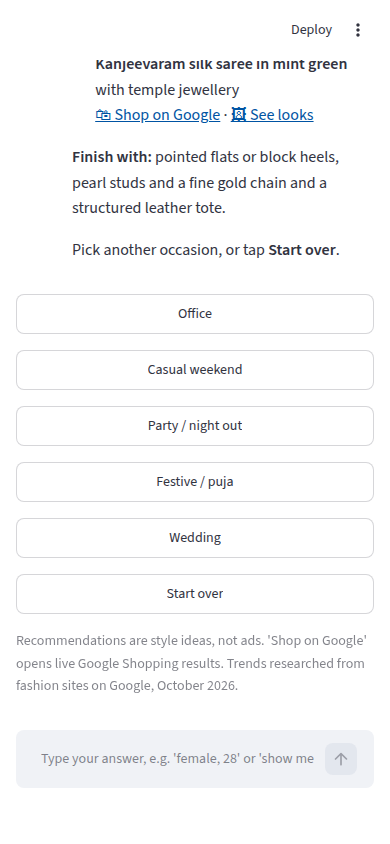
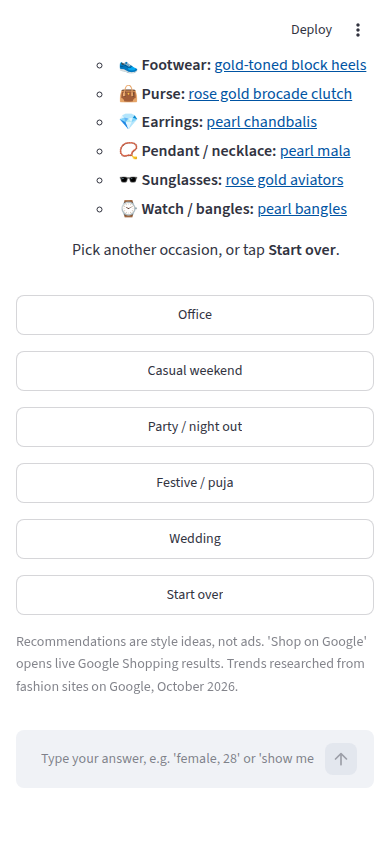
Stylist: recommend complete looks with matched accessories
- Every outfit now comes with footwear, purse, earrings, pendant,
  sunglasses and watch/bangles (women); watch, sunglasses, footwear and a
  finishing touch (men); bag, jewellery, watch, sunglasses (neutral)
- Accessories follow wear type and vibe; metal tone and purse colour
  follow the palette; occasions dress accessories up or down
- Outfit notes no longer repeat accessories; tests cover every look

Claude-Session: https://claude.ai/code/session_01J9GDJHfccqAxpuc6eiAtKr

diff --git a/05-just-for-you-stylist/style_knowledge.py b/05-just-for-you-stylist/style_knowledge.py
@@ -239,38 +239,142 @@ OCCASION_OUTFITS = {
     },
 }
 
-# ---- Accessories: ACCESSORIES[gender][vibe] -----------------------------------
-ACCESSORIES = {
-    "woman": {
-        "comfortable": {"Footwear": "white sneakers or kolhapuri flats", "Bag": "canvas tote",
-                        "Jewellery": "small hoops or oxidised silver studs", "Extra": "cotton stole or bucket hat"},
-        "classy": {"Footwear": "pointed flats or block heels", "Bag": "structured leather tote",
-                   "Jewellery": "pearl studs and a fine gold chain", "Extra": "classic leather-strap watch"},
-        "fashionable": {"Footwear": "kitten heels or chunky loafers", "Bag": "woven shoulder bag",
-                        "Jewellery": "layered necklaces and stacked rings", "Extra": "statement sunglasses"},
-        "statement": {"Footwear": "metallic heels or embellished juttis", "Bag": "minaudiere clutch or potli",
-                      "Jewellery": "chunky beaded necklace or chandbalis", "Extra": "statement brooch"},
+# ---- Complete-look accessories ----------------------------------------------------
+# Options are separated by "|"; outfit 1 gets the first option, outfit 2 the second, and so on.
+# {metal} is filled from the colour palette (e.g. rose gold for pastels) and {accent} with a
+# palette colour, so accessories match the customer's colours.
+METAL = {"Neutrals & whites": "gold", "Pastels": "rose gold", "Earthy tones": "antique gold",
+         "Jewel tones": "gold", "Bright & bold": "gold", "Black & monochrome": "silver",
+         "Surprise me (2026 trend colours)": "silver"}
+
+# Women: LOOK_WOMAN[slot][wear][vibe]
+LOOK_WOMAN = {
+    "Footwear": {
+        "western": {"comfortable": "white sneakers|ballet flats|slip-on loafers",
+                    "classy": "pointed flats|block heels|slingback kitten heels",
+                    "fashionable": "kitten heels|chunky loafers|strappy flat sandals",
+                    "statement": "metallic heels|knee-high boots|embellished mules"},
+        "indo": {"comfortable": "kolhapuri flats|embroidered juttis|flat sandals",
+                 "classy": "embroidered juttis|block-heel sandals|pointed mules",
+                 "fashionable": "block heels|embellished kolhapuris|platform juttis",
+                 "statement": "embellished heels|mirror-work juttis|metallic block heels"},
+        "traditional": {"comfortable": "kolhapuris|cotton juttis|soft leather sandals",
+                        "classy": "silk juttis|gold-toned block heels|embroidered mojaris",
+                        "fashionable": "embellished juttis|platform kolhapuris|wedge juttis",
+                        "statement": "zari juttis|embellished heels|velvet mojaris"},
     },
-    "man": {
-        "comfortable": {"Footwear": "white sneakers or kolhapuris", "Bag": "canvas backpack",
-                        "Jewellery": "simple bracelet", "Extra": "cotton cap"},
-        "classy": {"Footwear": "leather loafers or mojaris", "Bag": "leather messenger bag",
-                   "Jewellery": "signet ring", "Extra": "minimal leather-strap watch"},
-        "fashionable": {"Footwear": "chunky sneakers", "Bag": "sling bag",
-                        "Jewellery": "silver chain", "Extra": "tinted sunglasses"},
-        "statement": {"Footwear": "embroidered mojaris or chelsea boots", "Bag": "textured leather pouch",
-                      "Jewellery": "layered chains and a bold ring", "Extra": "lapel brooch or pocket square"},
+    "Purse": {
+        "western": {"comfortable": "{accent} canvas tote|{accent} crossbody bag|{accent} sling bag",
+                    "classy": "structured {accent} leather tote|{accent} top-handle bag|{accent} envelope clutch",
+                    "fashionable": "woven {accent} shoulder bag|{accent} baguette bag|{accent} bucket bag",
+                    "statement": "{metal} minaudiere clutch|{accent} beaded clutch|sculptural {accent} handbag"},
+        "indo": {"comfortable": "{accent} printed tote|{accent} jute sling bag|{accent} fabric crossbody",
+                 "classy": "{accent} potli bag|{accent} embroidered clutch|structured {accent} tote",
+                 "fashionable": "{accent} mirror-work sling bag|{accent} box clutch|{accent} woven potli",
+                 "statement": "embellished {accent} potli|{metal} box clutch|{accent} sequinned clutch"},
+        "traditional": {"comfortable": "{accent} cotton potli|{accent} jute tote|{accent} block-print sling bag",
+                        "classy": "{accent} silk potli|{metal} brocade clutch|{accent} zari envelope clutch",
+                        "fashionable": "{accent} embroidered potli|{accent} beaded clutch|{accent} velvet potli",
+                        "statement": "{metal} embellished potli|{accent} velvet box clutch|{metal} zardozi clutch"},
     },
-    "neutral": {
-        "comfortable": {"Footwear": "sneakers or sliders", "Bag": "canvas tote", "Jewellery": "simple silver ring",
-                        "Extra": "bucket hat"},
-        "classy": {"Footwear": "leather loafers", "Bag": "structured crossbody", "Jewellery": "fine chain",
-                   "Extra": "minimal watch"},
-        "fashionable": {"Footwear": "chunky sneakers", "Bag": "sling bag", "Jewellery": "layered silver chains",
-                        "Extra": "statement sunglasses"},
-        "statement": {"Footwear": "platform boots", "Bag": "metallic pouch", "Jewellery": "chunky beaded necklace",
-                      "Extra": "brooch"},
+    "Earrings": {
+        "western": {"comfortable": "small {metal} hoops|{metal} studs|tiny {metal} huggies",
+                    "classy": "pearl studs|{metal} drop earrings|solitaire studs",
+                    "fashionable": "{metal} ear cuffs|chunky {metal} hoops|{metal} geometric earrings",
+                    "statement": "oversized {metal} hoops|chandelier earrings|sculptural {metal} earrings"},
+        "indo": {"comfortable": "small oxidised jhumkas|{metal} studs|mini {metal} chandbalis",
+                 "classy": "pearl drop earrings|{metal} jhumkas|kundan studs",
+                 "fashionable": "{metal} ear cuffs with chain|statement jhumkas|tassel earrings",
+                 "statement": "big {metal} chandbalis|layered jhumkas|mirror-work earrings"},
+        "traditional": {"comfortable": "small {metal} jhumkas|{metal} studs|oxidised silver jhumkas",
+                        "classy": "temple jhumkas|pearl chandbalis|kundan drop earrings",
+                        "fashionable": "statement jhumkas|polki earrings|{metal} chandbalis",
+                        "statement": "temple jhumkas with ear chains|polki chandbalis|layered kundan jhumkas"},
     },
+    "Pendant / necklace": {
+        "western": {"comfortable": "dainty {metal} chain|{metal} initial pendant|thin {metal} chain",
+                    "classy": "{metal} pendant on a fine chain|single pearl pendant|{metal} solitaire pendant",
+                    "fashionable": "layered {metal} necklaces|{metal} coin pendant|chunky {metal} chain",
+                    "statement": "chunky beaded necklace|bold {metal} collar necklace|layered pearl necklaces"},
+        "indo": {"comfortable": "oxidised silver pendant|{metal} thread pendant|minimal {metal} chain",
+                 "classy": "{metal} pendant with pearls|kundan pendant|fine {metal} chain",
+                 "fashionable": "layered {metal} necklaces|{metal} coin necklace|tassel pendant",
+                 "statement": "statement {metal} choker|chunky beaded necklace|layered kundan necklace"},
+        "traditional": {"comfortable": "small {metal} pendant|oxidised silver necklace|thin {metal} chain",
+                        "classy": "temple pendant|pearl mala|kundan pendant set",
+                        "fashionable": "polki choker|layered {metal} necklace|{metal} coin haar",
+                        "statement": "temple choker with long haar|polki necklace set|layered kundan haar"},
+    },
+    "Sunglasses": {"comfortable": "classic wayfarers|oversized round sunglasses|tortoiseshell wayfarers",
+                   "classy": "tortoiseshell cat-eye sunglasses|{metal} aviators|square tortoiseshell sunglasses",
+                   "fashionable": "slim oval sunglasses|tinted rectangular sunglasses|{metal} round sunglasses",
+                   "statement": "oversized shield sunglasses|{accent} cat-eye sunglasses|oversized square sunglasses"},
+    "Watch / bangles": {
+        "western": {"comfortable": "{accent} strap watch|slim {metal} bracelet|minimal watch",
+                    "classy": "classic {metal} watch|{metal} bangle|{metal} mesh-strap watch",
+                    "fashionable": "stacked {metal} bracelets|square-dial watch|{metal} chain bracelet",
+                    "statement": "chunky {metal} cuff|bold bangle stack|{metal} statement watch"},
+        "indo": {"comfortable": "thin {metal} bangles|oxidised kada|minimal watch",
+                 "classy": "{metal} kada|pearl bracelet|{metal} bangles",
+                 "fashionable": "stacked {metal} bangles|{metal} cuff|beaded bracelets",
+                 "statement": "chunky {metal} kada|mirror-work bangles|{metal} haathphool"},
+        "traditional": {"comfortable": "{accent} glass bangles|thin {metal} bangles|oxidised kada",
+                        "classy": "{metal} kangan|pearl bangles|{metal} bangles",
+                        "fashionable": "{accent} bangle stack|kundan bangles|{metal} kada",
+                        "statement": "kundan kangan set|{metal} haathphool|heavy {metal} bangle stack"},
+    },
+}
+
+# Men: LOOK_MAN[slot][wear][vibe], or LOOK_MAN[slot][vibe] for slots that don't depend on wear
+LOOK_MAN = {
+    "Footwear": {
+        "western": {"comfortable": "white sneakers|canvas slip-ons|suede sneakers",
+                    "classy": "leather loafers|suede derbies|brown brogues",
+                    "fashionable": "chunky sneakers|suede chelsea boots|minimal leather sneakers",
+                    "statement": "chelsea boots|patent loafers|{accent} suede loafers"},
+        "indo": {"comfortable": "kolhapuris|leather sandals|minimal sneakers",
+                 "classy": "leather mojaris|tan loafers|suede loafers",
+                 "fashionable": "minimal sneakers|embroidered loafers|tan mojaris",
+                 "statement": "embroidered mojaris|velvet loafers|zari juttis"},
+        "traditional": {"comfortable": "kolhapuris|leather juttis|leather sandals",
+                        "classy": "leather mojaris|embroidered juttis|tan juttis",
+                        "fashionable": "embroidered juttis|tan mojaris|printed juttis",
+                        "statement": "zari mojaris|velvet juttis|embroidered mojaris"},
+    },
+    "Watch": {"comfortable": "{accent} strap sports watch|canvas-strap watch|digital watch",
+              "classy": "classic leather-strap watch|{metal} dress watch|leather-strap chronograph",
+              "fashionable": "steel bracelet watch|square-dial watch|{accent} dial watch",
+              "statement": "chronograph watch|{metal} statement watch|skeleton watch"},
+    "Sunglasses": {"comfortable": "classic wayfarers|polarised sports sunglasses|round wayfarers",
+                   "classy": "tortoiseshell round sunglasses|{metal} aviators|square tortoiseshell sunglasses",
+                   "fashionable": "slim rectangular sunglasses|clear-frame sunglasses|{metal} round sunglasses",
+                   "statement": "bold square sunglasses|tinted aviators|{accent} tinted sunglasses"},
+    "Finishing touch": {
+        "western": {"comfortable": "canvas backpack|{accent} cap|woven bracelet",
+                    "classy": "brown leather belt|leather messenger bag|{metal} cufflinks",
+                    "fashionable": "sling bag|{metal} chain|{accent} beanie",
+                    "statement": "{accent} pocket square|bold {metal} ring|{metal} lapel pin"},
+        "indo": {"comfortable": "{accent} cotton stole|{metal} kada|leather bracelet",
+                 "classy": "{accent} silk pocket square|{metal} kada|{metal} brooch",
+                 "fashionable": "layered {metal} chain|{accent} printed stole|{metal} ring",
+                 "statement": "{metal} brooch|layered {metal} chains|{accent} embroidered stole"},
+        "traditional": {"comfortable": "{accent} cotton stole|wooden bead bracelet|{metal} kada",
+                        "classy": "{accent} pocket square|{metal} kada|{metal} button set",
+                        "fashionable": "{accent} printed stole|{metal} button set|{metal} brooch",
+                        "statement": "kalgi brooch|{accent} zari stole|{metal} mala"},
+    },
+}
+
+# Prefer not to say: gender-neutral accessories, LOOK_NEUTRAL[slot][vibe]
+LOOK_NEUTRAL = {
+    "Bag": {"comfortable": "{accent} canvas tote|{accent} sling bag|{accent} backpack",
+            "classy": "structured {accent} crossbody|{accent} leather tote|{accent} leather pouch",
+            "fashionable": "{accent} sling bag|{accent} bucket bag|{accent} mini messenger bag",
+            "statement": "{metal} pouch|{accent} beaded bag|{accent} sculptural bag"},
+    "Jewellery": {"comfortable": "simple {metal} ring|{metal} studs|beaded bracelet",
+                  "classy": "fine {metal} chain|{metal} signet ring|{metal} studs",
+                  "fashionable": "layered {metal} chains|{metal} ear cuff|stacked {metal} rings",
+                  "statement": "chunky beaded necklace|bold {metal} rings|{metal} brooch"},
 }
 
 # ---- Age-band tips -----------------------------------------------------------

diff --git a/05-just-for-you-stylist/stylist.py b/05-just-for-you-stylist/stylist.py
@@ -51,6 +51,27 @@ def looks_link(query: str) -> str:
     return "https://www.google.com/search?tbm=isch&q=" + quote_plus(query + " outfit")
 
 
+ACCESSORY_WORDS = re.compile(
+    r"(sneaker|flat|heel|jutti|kolhapuri|mojari|loafer|boot|sandal|mule|derb|slider|high-top|bag|tote|clutch|"
+    r"potli|minaudiere|jhumka|earring|chandbali|stud|hoop|chain|necklace|choker|jewel|watch|brooch|bracelet|"
+    r"pocket square|kalgi|shoe|accessor)")
+# Occasions shift the accessory style: e.g. a "comfortable" dresser gets classy accessories for a wedding
+OCCASION_VIBE = {"wedding": {"comfortable": "classy", "fashionable": "statement"},
+                 "festive": {"comfortable": "classy"},
+                 "party": {"comfortable": "fashionable", "classy": "fashionable"},
+                 "office": {"statement": "classy", "fashionable": "classy"}}
+ICONS = {"Footwear": "👟", "Purse": "👜", "Bag": "👜", "Earrings": "💎", "Pendant / necklace": "📿",
+         "Sunglasses": "🕶", "Watch / bangles": "⌚", "Watch": "⌚", "Finishing touch": "✨", "Jewellery": "💍"}
+
+
+def clean_styling(styling: str) -> str:
+    """Drop accessory mentions (shoes, bags, jewellery) from an outfit's styling note, since the
+    complete look lists accessories separately. 'with a denim jacket and slip-on sneakers' -> 'with a denim jacket'."""
+    parts = re.split(r",? and |, ", re.sub(r"^(with|and) ", "", styling))
+    keep = [p for p in parts if not ACCESSORY_WORDS.search(p)]
+    return ("with " + " and ".join(keep)) if keep else ""
+
+
 def age_band(age: int) -> str:
     for limit, band in [(17, "Under 18"), (24, "18-24"), (34, "25-34"), (44, "35-44"), (54, "45-54")]:
         if age <= limit:
@@ -151,8 +172,9 @@ class Stylist:
         if colour:
             title += f", plus a touch of {colour}" if has_colour else f" in {colour}"
         q = f"{'' if has_colour else colour + ' '}{hero.split(' or ')[0]} {GENDER_WORD[self.answers['gender']]}"
-        return (f"**{title}** {styling}  \n"
-                f"[🛍 Shop on Google]({shop_link(q)}) · [🖼 See looks]({looks_link(q)})")
+        styling = clean_styling(styling)
+        return (f"**{title}**{' ' + styling if styling else ''}  \n"
+                f"[🛍 Shop on Google]({shop_link(q)}) · [🖼 See looks]({looks_link(q)})  ")
 
     def persona(self) -> tuple[str, str]:
         adj, vibe_desc = K.VIBE_PERSONA[self.answers["vibe"]]
@@ -169,20 +191,48 @@ class Stylist:
         picks.append(K.TRENDS["accessories"][0 if self.answers["vibe"] in ("fashionable", "statement") else 1])
         return picks
 
+    def _family(self, i: int) -> str:
+        wear = self.answers["wear"]
+        return ["western", "indo", "traditional"][i] if wear == "mix" else wear
+
+    def complete_look(self, i: int, family: str, occasion: str = None) -> list[tuple[str, str, str]]:
+        """Accessories for outfit number i: [(icon, slot, item)], matched to gender, wear, vibe and colour.
+        For an occasion, accessories are dressed up (wedding, festive, party) or toned down (office)."""
+        a = self.answers
+        g, vibe = a["gender"], OCCASION_VIBE.get(occasion, {}).get(a["vibe"], a["vibe"])
+        fill = {"metal": K.METAL[a["colour"]], "accent": K.PALETTES[a["colour"]][(i + 2) % 4][0]}
+
+        def pick(options: str) -> str:
+            choices = options.split("|")
+            return choices[i % len(choices)].format(**fill)
+
+        if g == "woman":
+            slots = [(slot, by[family][vibe] if slot != "Sunglasses" else by[vibe]) for slot, by in K.LOOK_WOMAN.items()]
+        elif g == "man":
+            slots = [(slot, by[family][vibe] if family in by else by[vibe]) for slot, by in K.LOOK_MAN.items()]
+        else:
+            slots = [("Footwear", K.LOOK_MAN["Footwear"][family][vibe]), ("Bag", K.LOOK_NEUTRAL["Bag"][vibe]),
+                     ("Jewellery", K.LOOK_NEUTRAL["Jewellery"][vibe]), ("Watch", K.LOOK_MAN["Watch"][vibe]),
+                     ("Sunglasses", K.LOOK_MAN["Sunglasses"][vibe])]
+        return [(ICONS[slot], slot, pick(options)) for slot, options in slots]
+
+    def _look_block(self, i: int, family: str, occasion: str = None) -> str:
+        gw = GENDER_WORD[self.answers["gender"]]
+        lines = [f"   - {icon} **{slot}:** [{item}]({shop_link(item + ' ' + gw)})"
+                 for icon, slot, item in self.complete_look(i, family, occasion)]
+        return "   *Complete the look:*\n" + "\n".join(lines)
+
     def recommend(self, intro: str = "") -> dict:
         a = self.answers
         name, desc = self.persona()
-        outfits = "\n".join(f"{i}. {self._item_line(self._colour_for(i - 1), hero, styling)}"
-                            for i, (hero, styling) in enumerate(self._outfits(), 1))
-        gw = GENDER_WORD[a["gender"]]
-        acc = "\n".join(f"- **{k}:** {v} ([shop]({shop_link(v.split(' or ')[0] + ' ' + gw)}))"
-                        for k, v in K.ACCESSORIES[a["gender"]][a["vibe"]].items())
+        looks = "\n".join(f"{i}. {self._item_line(self._colour_for(i - 1), hero, styling)}\n{self._look_block(i - 1, self._family(i - 1))}\n"
+                          for i, (hero, styling) in enumerate(self._outfits(), 1))
         tips = "\n".join(f"- {t}" for t in K.AGE_TIPS[a["age"]])
         trends = "\n".join(f"- {t} ([source]({url}))" for t, url in self._trends())
         text = (f"{intro}✨ **Your style persona: {name}**  \n*{desc}*\n\n"
-                f"#### 👗 Outfits picked just for you\n{outfits}\n\n"
-                f"#### 👜 Accessories to complete the look\n{acc}\n\n"
-                f"#### 🎨 Your colour palette: {a['colour']}\n{K.PALETTE_TIPS[a['colour']]}\n\n"
+                f"#### 👗 Complete looks picked just for you\n{looks}\n"
+                f"#### 🎨 Your colour palette: {a['colour']}\n{K.PALETTE_TIPS[a['colour']]} "
+                f"Your accessories are in **{K.METAL[a['colour']]}** tones to match.\n\n"
                 f"#### 💡 Tips for your age group ({a['age']})\n{tips}\n\n"
                 f"#### 🔥 Trending in 2026 (from the web)\n{trends}\n\n"
                 "Want a look for a specific occasion? Tap one below, or type something like *show me pastels*.")
@@ -194,11 +244,10 @@ class Stylist:
         main = K.OCCASION_OUTFITS[a["gender"]][occasion][wear]
         alt_wear = "indo" if wear != "indo" else ("traditional" if occasion in ("festive", "wedding") else "western")
         alt = K.OCCASION_OUTFITS[a["gender"]][occasion][alt_wear]
-        acc = K.ACCESSORIES[a["gender"]][a["vibe"]]
         text = (f"#### {K.OCCASIONS[occasion]} look, just for you\n"
-                f"1. {self._item_line(self._colour_for(0), *main)}\n"
-                f"2. Or try {K.WEAR[alt_wear].lower()}: {self._item_line(self._colour_for(1), *alt)}\n\n"
-                f"**Finish with:** {acc['Footwear']}, {acc['Jewellery']} and a {acc['Bag']}.\n\n"
+                f"1. {self._item_line(self._colour_for(0), *main)}\n{self._look_block(0, wear, occasion)}\n\n"
+                f"2. Or try {K.WEAR[alt_wear].lower()}: {self._item_line(self._colour_for(1), *alt)}\n"
+                f"{self._look_block(1, alt_wear, occasion)}\n\n"
                 "Pick another occasion, or tap **Start over**.")
         return {"text": text}
 

diff --git a/05-just-for-you-stylist/test_stylist.py b/05-just-for-you-stylist/test_stylist.py
@@ -27,10 +27,31 @@ for g, age, wear, vibe, colour in itertools.product(K.GENDERS.values(), K.AGE_BA
     for answer in (g, age, wear, vibe, colour):
         r = b.reply(answer)
     assert "Your style persona" in r["text"] and len(r["palette"]) == 4, (g, age, wear, vibe, colour)
-    assert r["text"].count("Shop on Google") == 3
-if True:
+    assert r["text"].count("Shop on Google") == 3 and r["text"].count("Complete the look") == 3
+    assert "{" not in r["text"], "an accessory placeholder was not filled in"
     for occ in K.OCCASIONS.values():
         assert "look, just for you" in b.reply(occ)["text"]
+
+# Complete looks have the right accessories for each gender
+REQUIRED = {"Woman": ["Purse", "Earrings", "Pendant / necklace", "Sunglasses", "Footwear", "Watch / bangles"],
+            "Man": ["Watch", "Sunglasses", "Footwear", "Finishing touch"],
+            "Prefer not to say": ["Bag", "Jewellery", "Watch", "Sunglasses", "Footwear"]}
+for g, slots in REQUIRED.items():
+    b = Stylist()
+    for answer in (g, "25-34", "A mix of everything", "Classy", "Pastels"):
+        r = b.reply(answer)
+    for slot in slots:
+        assert r["text"].count(f"**{slot}:**") == 3, (g, slot)
+
+# Accessories follow the answers: metal from the colour, jewellery style from the wear type
+b = Stylist()
+for answer in ("Woman", "25-34", "Traditional", "Classy", "Black & monochrome"):
+    r = b.reply(answer)
+assert "silver" in r["text"] and "jhumkas" in r["text"]
+b = Stylist()
+for answer in ("Man", "25-34", "Indo-western", "Comfortable", "Earthy tones"):
+    b.reply(answer)
+assert "backpack" not in b.reply("Wedding")["text"]          # dressed up for the occasion
 
 # Follow-ups change the result, and Start over resets
 b = Stylist()

diff --git a/05-just-for-you-stylist/README.md b/05-just-for-you-stylist/README.md
@@ -3,7 +3,7 @@
 **Skills shown:** Customer persona design · Conversational UX · Recommendation logic · Trend research · Python · Streamlit
 
 > **Business problem.** Fashion shoppers face thousands of products and leave without buying when they can't picture what suits them.
-> **Just for you** asks 4 quick questions, builds the shopper's **style persona**, and recommends outfits, accessories and colours, with one-tap links to shop each item on Google.
+> **Just for you** asks 4 quick questions, builds the shopper's **style persona**, and recommends **complete looks**: outfit, footwear, purse, earrings, pendant, sunglasses and watch, with one-tap links to shop every item on Google.
 
 ![Start screen](images/start.png)
 
@@ -15,7 +15,7 @@ flowchart LR
     Q2 --> Q3[Style vibe?<br/>Comfortable · Classy · Fashionable · Statement]
     Q3 --> Q4[Colour preference?]
     Q4 --> P[Style persona<br/>e.g. 'The Timeless Fusion Lover']
-    P --> R[3 outfits · accessories · colour palette<br/>age-group tips · 2026 trends]
+    P --> R[3 complete looks: outfit + accessories<br/>colour palette · age-group tips · 2026 trends]
     R --> O[Follow-ups: office · casual · party<br/>festive · wedding · change colour]
 ```
 
@@ -32,6 +32,19 @@ Customers can **tap buttons** or **type freely**. For example, *"female, 28"* an
 | Vibe | Comfortable · Classy · Fashionable · Statement |
 | Colour | Neutrals · Pastels · Earthy · Jewel tones · Bright & bold · Monochrome · Surprise me (2026 trend colours) |
 | Occasions | Office · Casual weekend · Party · Festive / puja · Wedding |
+
+## 👜 Complete looks: accessories matched to every answer
+| Customer | Each outfit comes with |
+|---|---|
+| Woman | 👟 Footwear · 👜 Purse · 💎 Earrings · 📿 Pendant / necklace · 🕶 Sunglasses · ⌚ Watch / bangles |
+| Man | 👟 Footwear · ⌚ Watch · 🕶 Sunglasses · ✨ Finishing touch (belt, pocket square, stole, kada) |
+| Prefer not to say | 👟 Footwear · 👜 Bag · 💍 Jewellery · ⌚ Watch · 🕶 Sunglasses |
+
+How each answer shapes the accessories:
+- **Wear type:** jhumkas, potlis and kangans with traditional; hoops, totes and watches with western; a blend for indo-western.
+- **Style vibe:** small studs and canvas totes for *comfortable*, up to chandbalis and minaudiere clutches for *statement*.
+- **Colour:** sets the metal tone (rose gold for pastels, silver for monochrome, antique gold for earthy) and the purse colour, a matching shade from the customer's palette.
+- **Occasion:** accessories are dressed up for weddings, festive events and parties, and toned down for the office.
 
 That's **2,016 combinations** of answers (3 × 6 × 4 × 4 × 7), each with its own persona, colour-matched outfits and accessories. All of them are checked by the tests.
 
@@ -56,10 +69,10 @@ On **share.streamlit.io** → **Create app** → **Deploy a public app from GitH
 ## 🗂 Files
 | File | What it does |
 |---|---|
-| `style_knowledge.py` | All styling content: outfits, accessories, palettes, age tips, occasion looks, 2026 trends with sources. **Edit this to refresh the bot.** |
+| `style_knowledge.py` | All styling content: outfits, complete-look accessories, metal tones, palettes, age tips, occasion looks, 2026 trends with sources. **Edit this to refresh the bot.** |
 | `stylist.py` | Conversation engine: asks the questions, understands typed answers, builds the persona and recommendations |
 | `app.py` | The web page: "Just for you" logo, chat, quick-reply buttons, colour swatches |
-| `test_stylist.py` | Checks typed-answer parsing, the full flow and all 2,016 combinations |
+| `test_stylist.py` | Checks typed-answer parsing, the full flow, all 2,016 combinations and the accessories in every complete look |
 
 ## 🚀 Ideas to extend it
 - Add photos for each outfit, and real product links from a store catalogue.

diff --git a/README.md b/README.md
@@ -12,7 +12,7 @@ Five end-to-end projects covering the full range of business analysis work: **da
 | 2 | [Customer Churn Analysis & Retention Business Case](02-customer-churn-analysis/) | *Why do customers leave, who's next, and is a retention campaign worth it?* | Root-cause analysis, logistic regression (AUC 0.81), risk scoring, ROI modelling | Showed a **targeted** campaign returns **+89% ROI**, while a blanket campaign **loses 47%** |
 | 3 | [Digital Loan Origination: Requirements & Process Redesign](03-loan-origination-requirements/) | *How do we cut loan decisions from 10 days to same-day?* | BRD, AS-IS/TO-BE BPMN, gap analysis, user stories + Gherkin, RACI, RTM, UAT | Full requirements set: 8 business reqs → 18 functional reqs → 18 user stories → 26 traced test cases |
 | 4 | [Persona Insights Chatbot](04-persona-insights-chatbot/) | *Can business teams get persona insights without waiting for an analyst?* | K-Means segmentation, persona design, LLM tool use (Claude API), Python | 5 behavioural personas behind a chatbot that answers only from calculated numbers. Includes a **free web chat app** (no API key) |
-| 5 | [Just for you: Personal Styling Chatbot](05-just-for-you-stylist/) | *How do we help shoppers find outfits that suit them, and convert?* | Persona design, conversational UX, recommendation rules, trend research, Streamlit | 4 questions → style persona with colour-matched outfits, accessories and Google Shopping links. Free, public web app |
+| 5 | [Just for you: Personal Styling Chatbot](05-just-for-you-stylist/) | *How do we help shoppers find outfits that suit them, and convert?* | Persona design, conversational UX, recommendation rules, trend research, Streamlit | 4 questions → style persona with complete looks (outfit, purse, earrings, pendant, sunglasses, watch) and Google Shopping links. Free, public web app |
 
 ## 🧰 Toolkit
 `SQL` · `Python (pandas, scikit-learn, matplotlib)` · `Claude API (tool use)` · `Excel / Power BI-ready CSV outputs` · `BPMN / Mermaid process modelling` · `Agile (Scrum, user stories, MoSCoW)` · `Requirements traceability` · `UAT`
